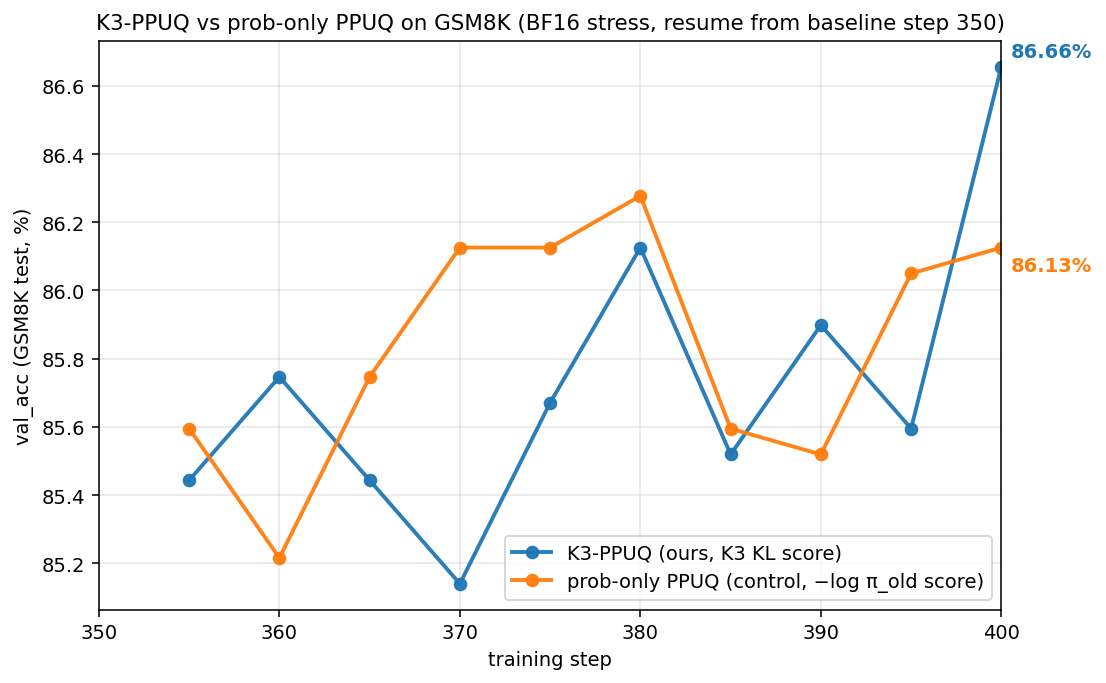
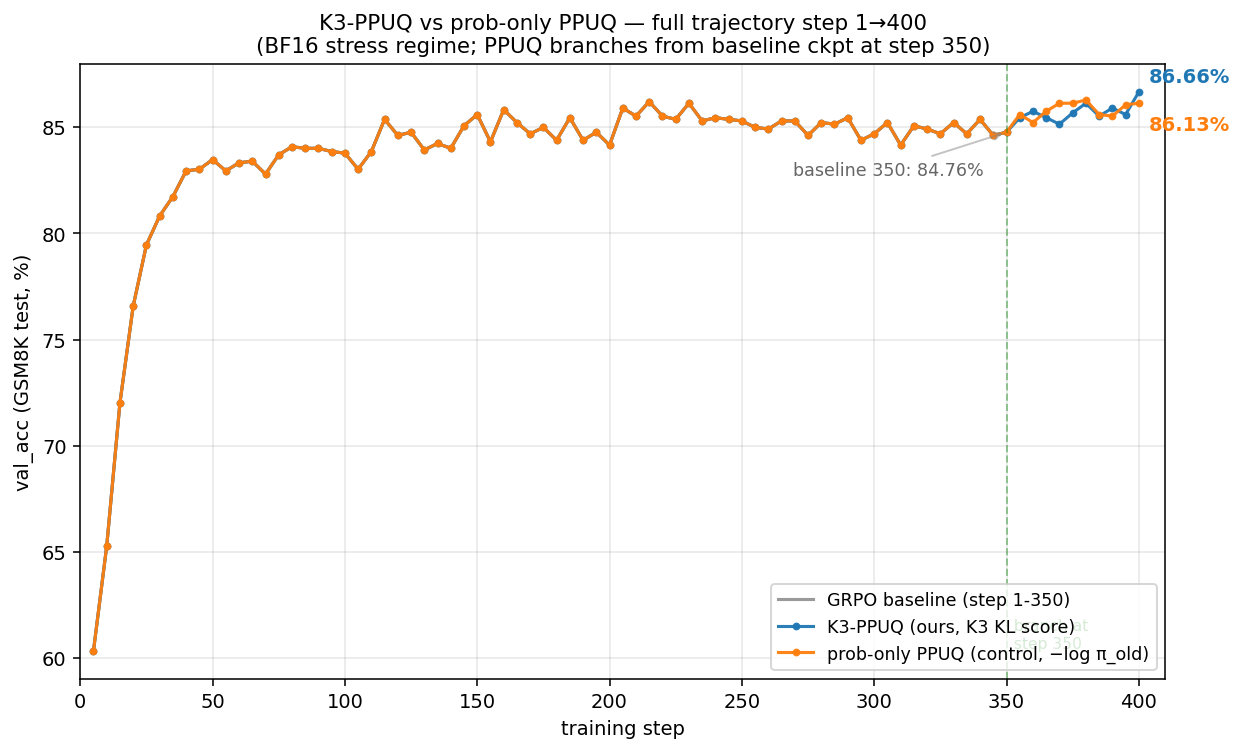
Phase 2 plot: merge segmented runs into full step 1-400 trajectory
- baseline (gray) drawn from 3 segmented runs (1-215, 201-300, 301-350)
- K3 / prob curves spliced from baseline 1-350 + their respective resume 350-400
  so the branching design at step 350 is visually clear (single common trajectory
  before, two divergent lines after)
- annotated baseline endpoint (84.76%), K3 endpoint (86.66%), prob endpoint (86.13%)

diff --git a/research_docs/analyze_summary.py b/research_docs/analyze_summary.py
@@ -287,27 +287,54 @@ def plot_focused(ax, label_to_df_color, title, xlim=None):
 
 
 # -------- Focused 2-line plots (baseline vs K3-PPUQ only, for advisor report) --------
-print("[+0a] Focused: K3-PPUQ vs prob-only PPUQ (BF16, 350→400 resume)...")
-fig, ax = plt.subplots(figsize=(8, 5))
+print("[+0a] Focused: K3 vs prob (BF16, full 1→400 incl. baseline 1-350 + resume 350-400)...")
+fig, ax = plt.subplots(figsize=(9, 5.5))
 key = "val-core/openai/gsm8k/acc/mean@1"
+# baseline = full 1-350 trajectory (3 segmented runs glued)
+sub_C = df_C.dropna(subset=[key])
+# K3 / prob = resume from baseline_350 → glue baseline 0-350 + resume 350-400 for visualization
+# (resume runs only have step 350+ data; before 350 they are identical to baseline by construction)
 sub_K3r = df_K3_resume.dropna(subset=[key])
 sub_probr = df_prob_resume.dropna(subset=[key])
-ax.plot(sub_K3r["step"], sub_K3r[key] * 100, "-o",
-        label="K3-PPUQ (ours, K3 KL score)", color="#1f77b4", linewidth=2.0, markersize=6, alpha=0.95)
-ax.plot(sub_probr["step"], sub_probr[key] * 100, "-o",
-        label="prob-only PPUQ (control, −log π_old score)", color="#ff7f0e", linewidth=2.0, markersize=6, alpha=0.95)
+# Splice: baseline curve 1-350 + resume curve 350-400
+import numpy as np
+def splice(base_df, resume_df):
+    a = base_df[base_df["step"] <= 350][["step", key]]
+    b = resume_df[resume_df["step"] >= 350][["step", key]]
+    return pd.concat([a, b], ignore_index=True).sort_values("step").reset_index(drop=True)
+sub_K3_full = splice(sub_C, sub_K3r)
+sub_prob_full = splice(sub_C, sub_probr)
+
+ax.plot(sub_C["step"], sub_C[key] * 100, "-",
+        label="GRPO baseline (step 1-350)", color="#888888", linewidth=1.6, alpha=0.85)
+ax.plot(sub_K3_full["step"], sub_K3_full[key] * 100, "-o",
+        label="K3-PPUQ (ours, K3 KL score)", color="#1f77b4",
+        linewidth=1.6, markersize=3, alpha=0.95)
+ax.plot(sub_prob_full["step"], sub_prob_full[key] * 100, "-o",
+        label="prob-only PPUQ (control, −log π_old)", color="#ff7f0e",
+        linewidth=1.6, markersize=3, alpha=0.95)
+ax.axvline(x=350, color="green", linestyle="--", alpha=0.4, linewidth=1)
 ax.set_xlabel("training step")
 ax.set_ylabel("val_acc (GSM8K test, %)")
-ax.set_title("K3-PPUQ vs prob-only PPUQ on GSM8K (BF16 stress, resume from baseline step 350)")
+ax.set_title("K3-PPUQ vs prob-only PPUQ — full trajectory step 1→400\n"
+             "(BF16 stress regime; PPUQ branches from baseline ckpt at step 350)")
 ax.grid(True, alpha=0.3)
-ax.legend(fontsize=10, loc="lower right")
-ax.set_xlim(350, 400)
-final_K3r = sub_K3r[sub_K3r.step == sub_K3r["step"].max()][key].iloc[0] * 100
-final_probr = sub_probr[sub_probr.step == sub_probr["step"].max()][key].iloc[0] * 100
+ax.legend(fontsize=9, loc="lower right")
+ax.set_xlim(0, 410)
+ymin, ymax = ax.get_ylim()
+ax.text(351, ymin + (ymax-ymin)*0.05, " branch at\n step 350",
+        color="green", fontsize=8, alpha=0.8)
+# annotate final values at step 400
+final_C = sub_C[sub_C["step"] == sub_C["step"].max()][key].iloc[0] * 100
+final_K3r = sub_K3r[sub_K3r["step"] == sub_K3r["step"].max()][key].iloc[0] * 100
+final_probr = sub_probr[sub_probr["step"] == sub_probr["step"].max()][key].iloc[0] * 100
+ax.annotate(f"baseline 350: {final_C:.2f}%", xy=(350, final_C),
+            xytext=(-110, -22), textcoords="offset points", fontsize=9, color="#666",
+            arrowprops=dict(arrowstyle="->", color="#888", alpha=0.5))
 ax.annotate(f"{final_K3r:.2f}%", xy=(sub_K3r["step"].max(), final_K3r),
             xytext=(5, 5), textcoords="offset points", fontsize=10, color="#1f77b4", fontweight="bold")
 ax.annotate(f"{final_probr:.2f}%", xy=(sub_probr["step"].max(), final_probr),
-            xytext=(5, -12), textcoords="offset points", fontsize=10, color="#ff7f0e", fontweight="bold")
+            xytext=(5, -14), textcoords="offset points", fontsize=10, color="#ff7f0e", fontweight="bold")
 plt.tight_layout()
 fig.savefig(OUT / "eval_acc_bf16_k3_vs_prob.png", dpi=140, bbox_inches="tight")
 print(f"  saved {OUT / 'eval_acc_bf16_k3_vs_prob.png'}")
